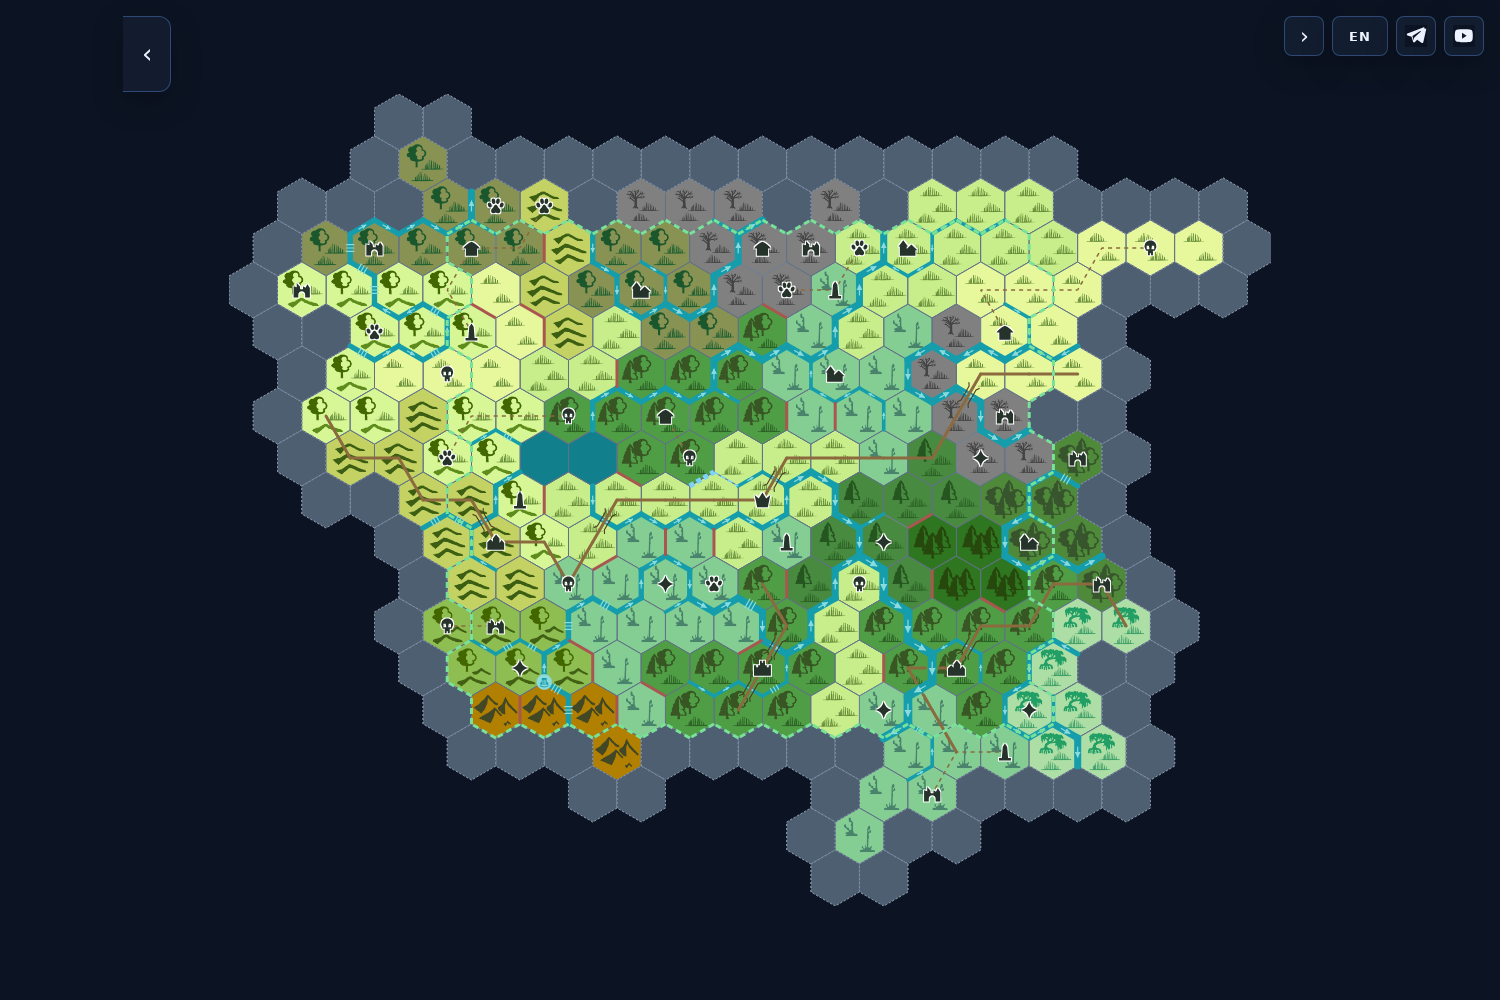
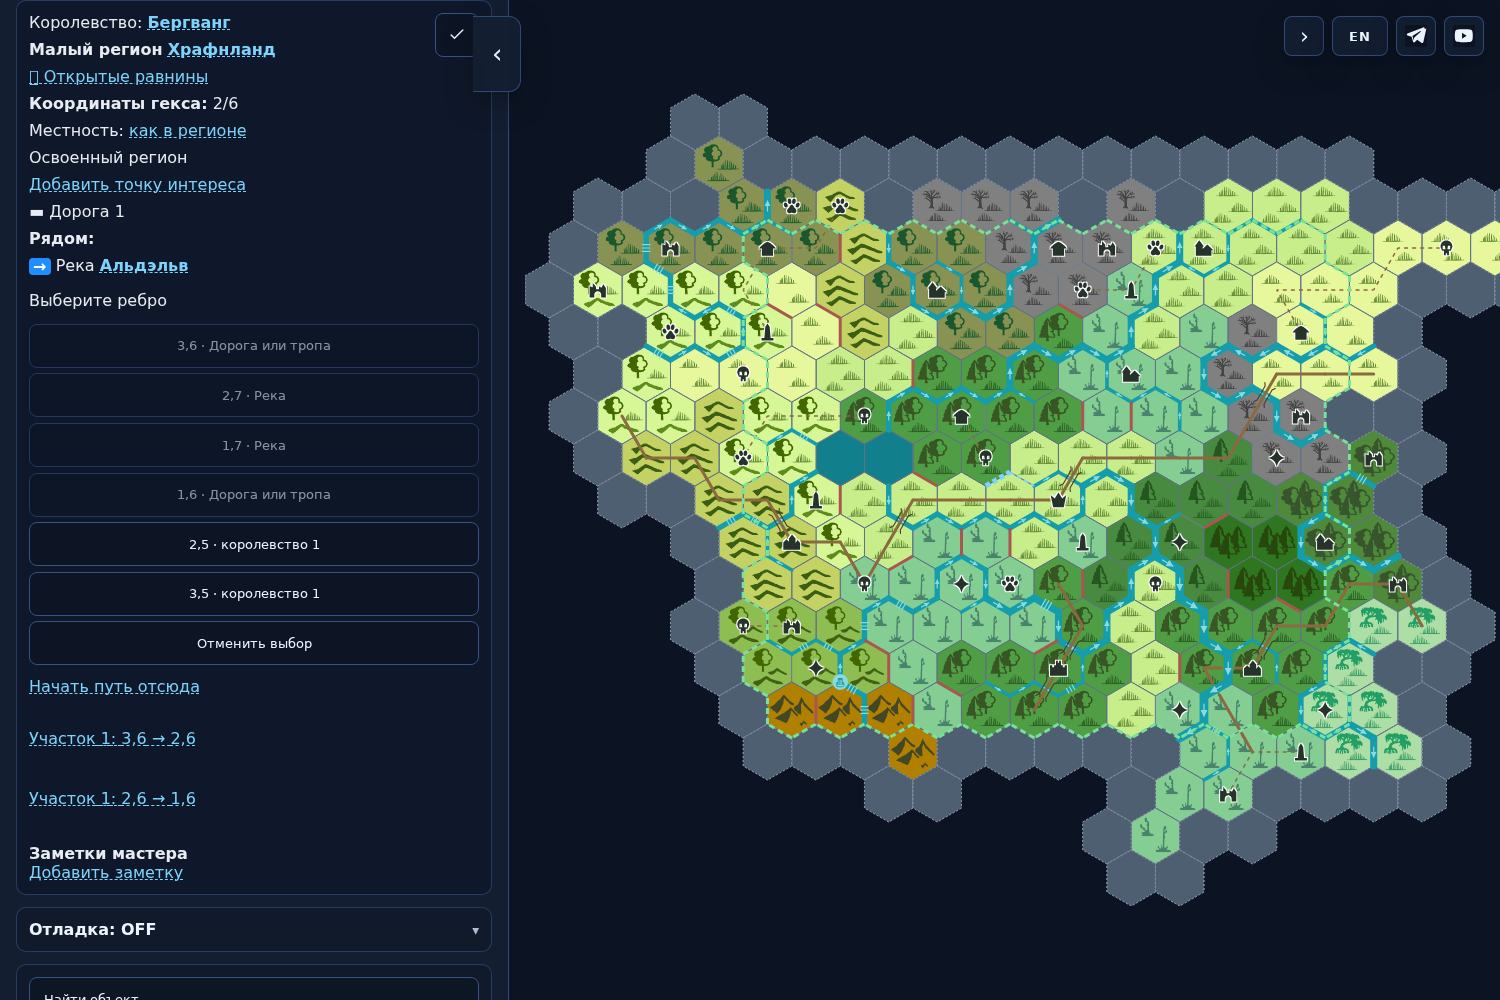
Bind accessible-label E4 final source and successful actual UI evidence to exact SHA

diff --git a/agent-work/evidence/HX-BL-023-E4-map-673b394/report.md b/agent-work/evidence/HX-BL-023-E4-map-673b394/report.md
@@ -1,4 +1,4 @@
-# E4 map/focus integration — 673b39468a21fad89d44c05c9c6d32b6c1e83741
+# E4 map/focus integration — 7d7ae9d3f908be03263bd1268a8036ca3f12ded0
 
 Base a398804; tree 22fb65e7b754af8dbf1126c49fd5748ba519e5b1; local git tree equals GitHub-created tree. Actual production source implements stable-ID map selection, available edge keyboard/touch circles44px, source solid gold with dark outline, target dashed cyan, and focus return. Collapsed panel reopens before focusing the object; removal returns to Nearby. Equal44px barrier row in read/edit. All editor overlays tagged data-editor-only and removed before PNG serialization.
 
@@ -17,3 +17,7 @@ Base a398804; tree 22fb65e7b754af8dbf1126c49fd5748ba519e5b1; local git tree equa
 Earlier Node/handler evidence: agent-work/evidence/HX-BL-023-E4-v5-0c0f4ca and HX-BL-023-E4-controls-a398804. New local browser full lifecycle passed. Negative diagnostic errors are test scope and rounded CSS comparison, fixed without modifying generation; excerpts preserved, full local raw files retained. Attempt to upload compressed raw logs had no usable returned SHA; do not claim those blobs saved.
 
 Before screenshots are actual a398804 production build in previous worktree, same controlled imported fixture; after screenshots current product source. Map source hash and tree verified. Some emoji unavailable in environment. Images shown in current chat; owner response is not a third gate. No main change/publication or score award. HX-BL-010 remains approved after E4.
+
+
+## Final accessible-label supplement
+Final SHA7d7ae9d also gives list/map controls the action and both hexes in RU/EN accessible names. Existing browser lifecycle now asserts those labels and equal read/edit barrier-row height. Final local production lifecycle passes after waiting for build completion; initial old-bundle aria assertion failed as expected and is preserved in e4-map-browser-aria-old-build-red.log. Final screenshots recaptured; source/Move/before images retain identical SHA, after-Add desktop refreshed. Current manual PNG25-line supplement remains valid.
